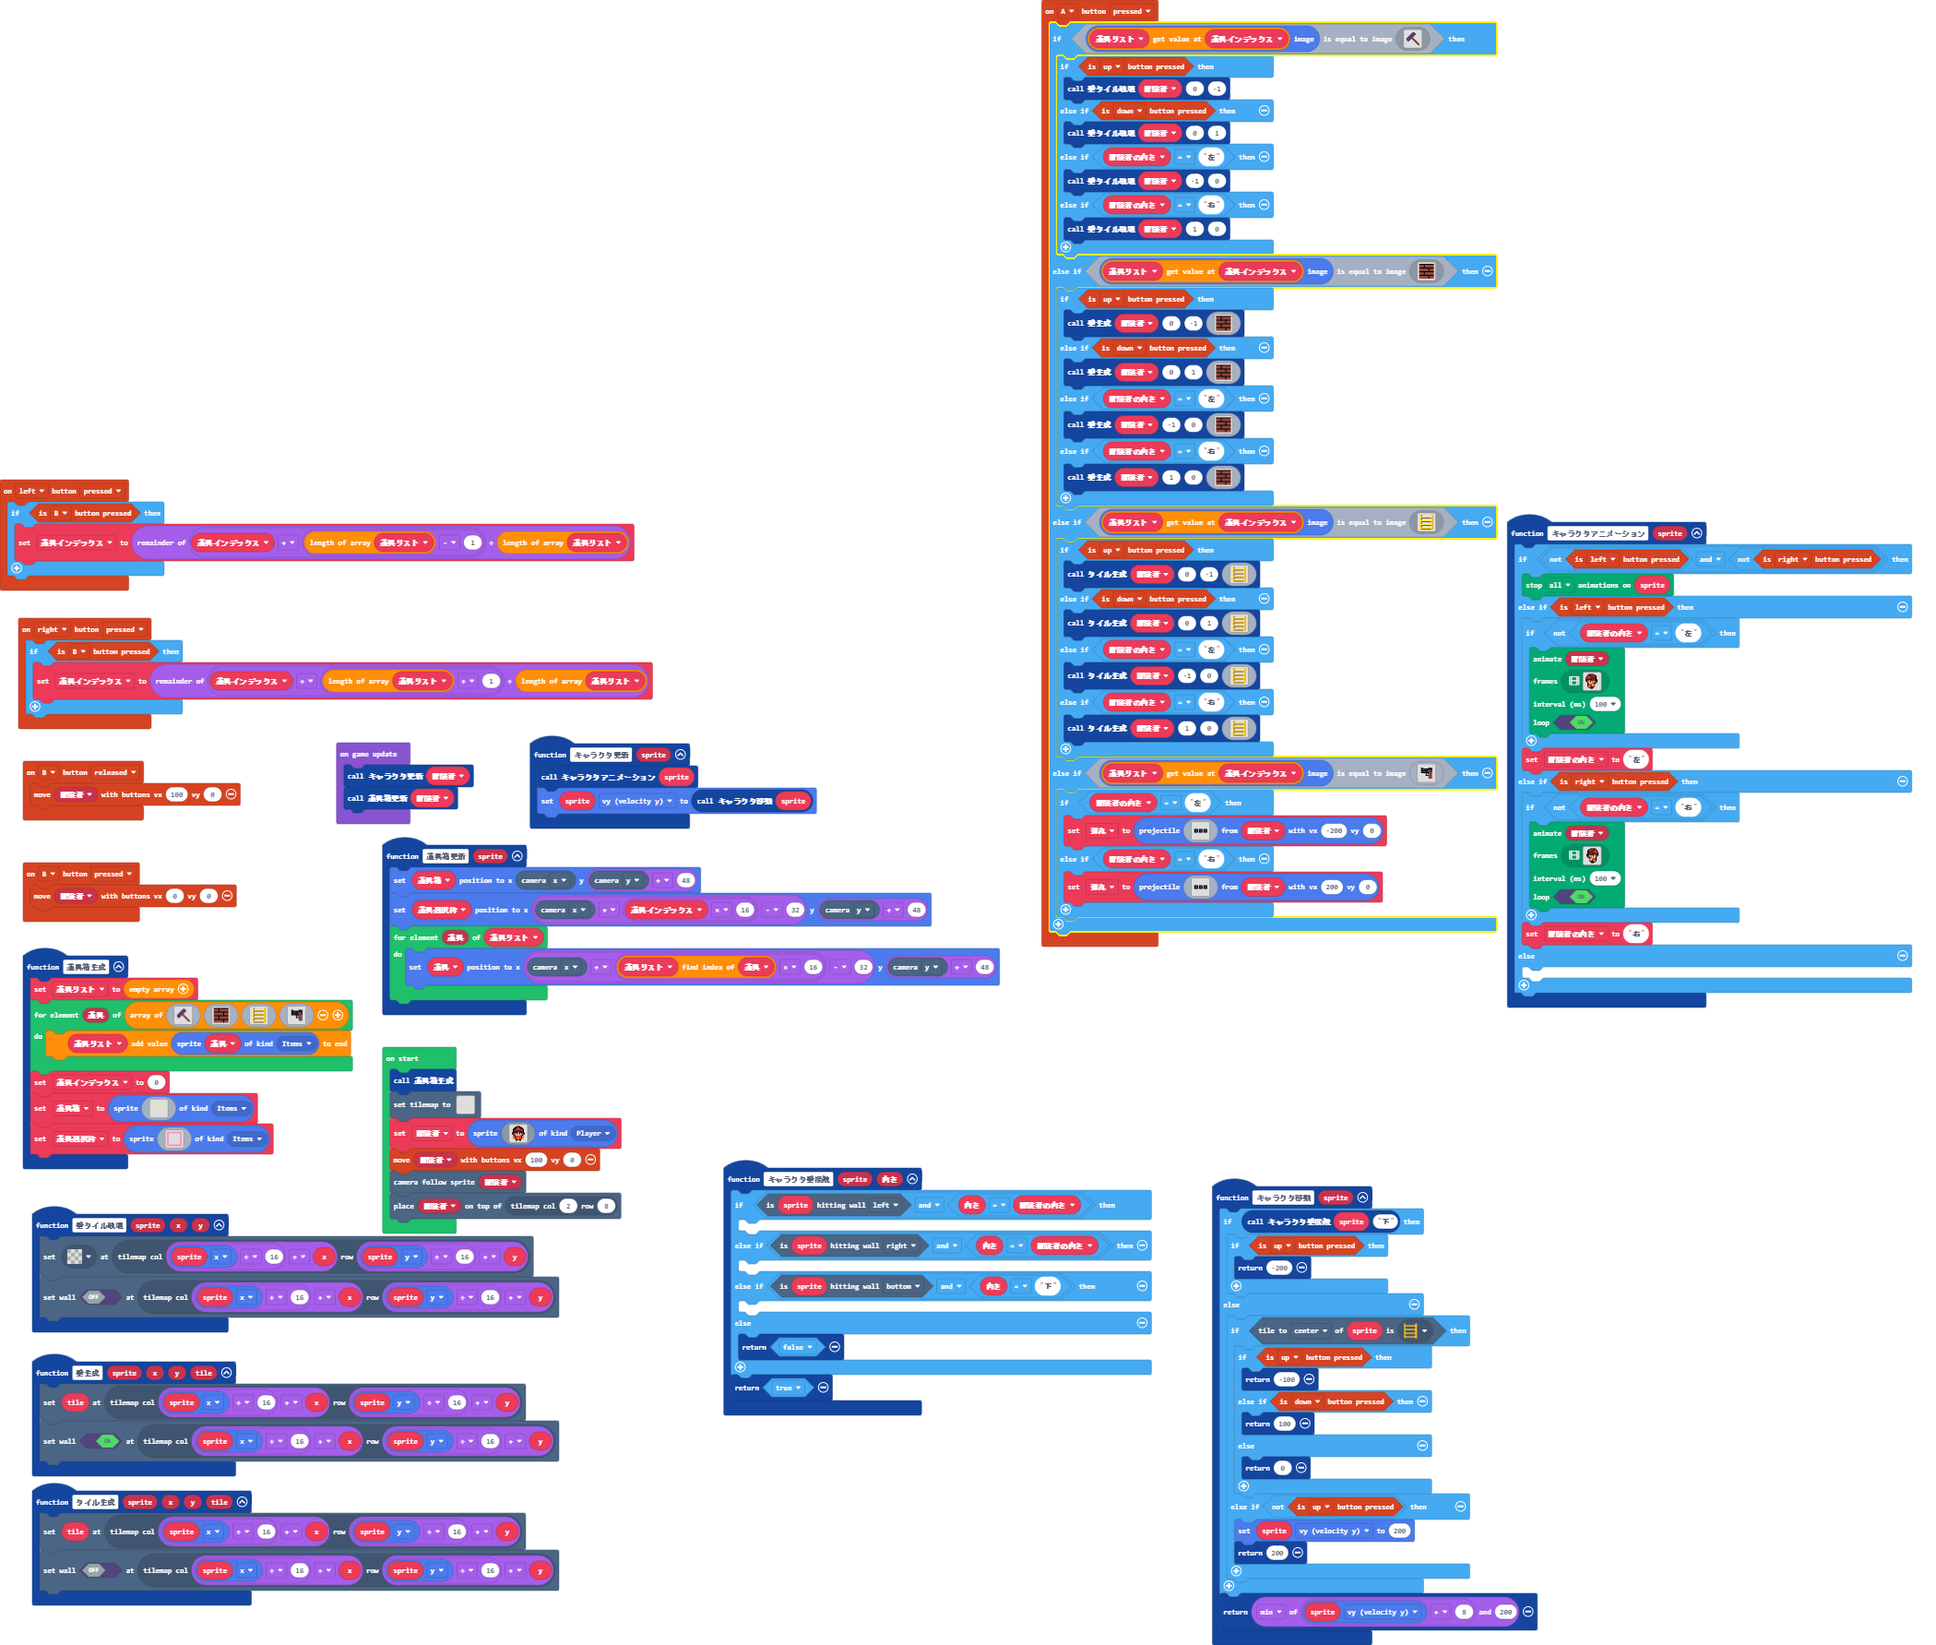
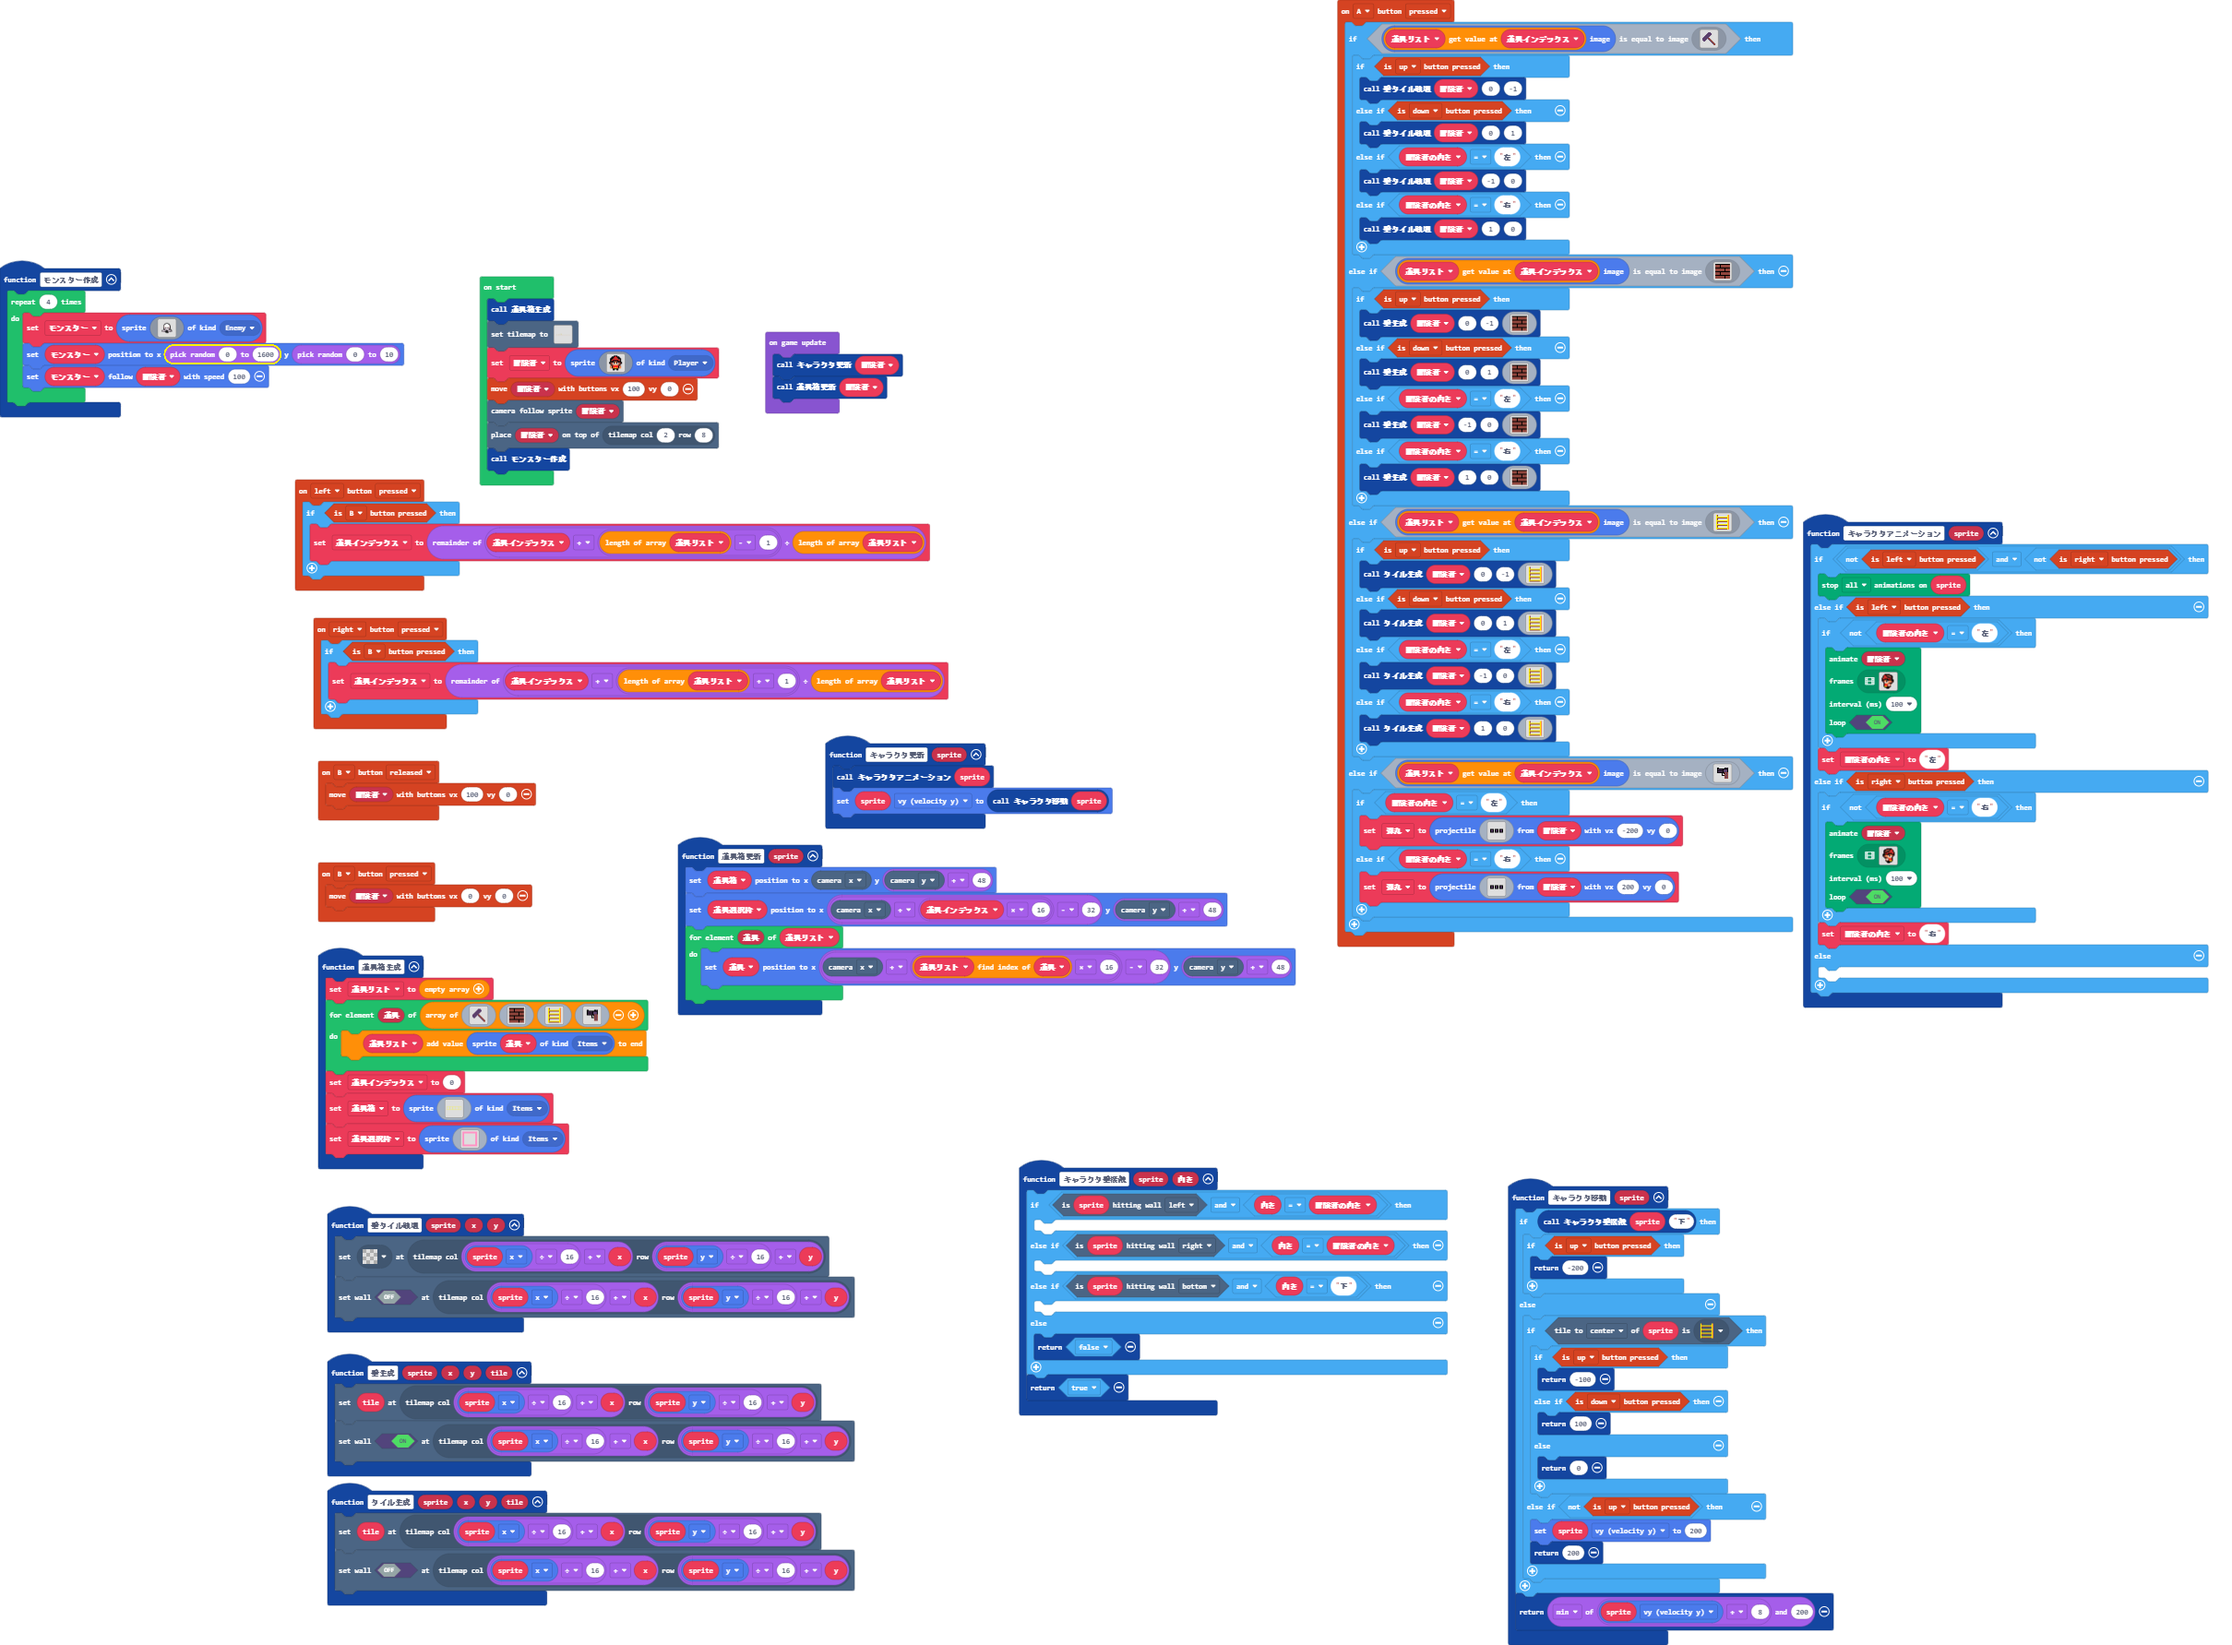
Update main.blocks, main.ts, images.g.jres, images.g.ts

diff --git a/main.ts b/main.ts
@@ -5,6 +5,38 @@ function タイル生成 (sprite: Sprite, x: number, y: number, tile: Image) {
     tiles.setTileAt(tiles.getTileLocation(sprite.x / 16 + x, sprite.y / 16 + y), tile)
     tiles.setWallAt(tiles.getTileLocation(sprite.x / 16 + x, sprite.y / 16 + y), false)
 }
+function モンスター作成 () {
+    for (let index = 0; index < 4; index++) {
+        モンスター = sprites.create(img`
+            ........................
+            ........................
+            ........................
+            ........................
+            ..........ffff..........
+            ........ff1111ff........
+            .......fb111111bf.......
+            .......f11111111f.......
+            ......fd11111111df......
+            ......fd11111111df......
+            ......fddd1111dddf......
+            ......fbdbfddfbdbf......
+            ......fcdcf11fcdcf......
+            .......fb111111bf.......
+            ......fffcdb1bdffff.....
+            ....fc111cbfbfc111cf....
+            ....f1b1b1ffff1b1b1f....
+            ....fbfbffffffbfbfbf....
+            .........ffffff.........
+            ...........fff..........
+            ........................
+            ........................
+            ........................
+            ........................
+            `, SpriteKind.Enemy)
+        モンスター.setPosition(randint(0, 1600), randint(0, 10))
+        モンスター.follow(冒険者, 100)
+    }
+}
 controller.B.onEvent(ControllerButtonEvent.Pressed, function () {
     controller.moveSprite(冒険者, 0, 0)
 })
@@ -324,6 +356,7 @@ let 弾丸: Sprite = null
 let 冒険者の向き = ""
 let 道具インデックス = 0
 let 道具リスト: Sprite[] = []
+let モンスター: Sprite = null
 let 冒険者: Sprite = null
 道具箱生成()
 tiles.setTilemap(tilemap`level1`)
@@ -348,6 +381,7 @@ tiles.setTilemap(tilemap`level1`)
 controller.moveSprite(冒険者, 100, 0)
 scene.cameraFollowSprite(冒険者)
 tiles.placeOnTile(冒険者, tiles.getTileLocation(2, 8))
+モンスター作成()
 game.onUpdate(function () {
     キャラクタ更新(冒険者)
     道具箱更新(冒険者)

diff --git a/images.g.ts b/images.g.ts
@@ -114,6 +114,32 @@ namespace myImages {
 . . . . . . . . . . . . . . . . 
 . . . . . . . . . . . . . . . . 
 `;
+            case "image3":return img`
+........................
+........................
+........................
+........................
+..........ffff..........
+........ff1111ff........
+.......fb111111bf.......
+.......f11111111f.......
+......fd11111111df......
+......fd11111111df......
+......fddd1111dddf......
+......fbdbfddfbdbf......
+......fcdcf11fcdcf......
+.......fb111111bf.......
+......fffcdb1bdffff.....
+....fc111cbfbfc111cf....
+....f1b1b1ffff1b1b1f....
+....fbfbffffffbfbfbf....
+.........ffffff.........
+...........fff..........
+........................
+........................
+........................
+........................
+`;
         }
         return null;
     })
